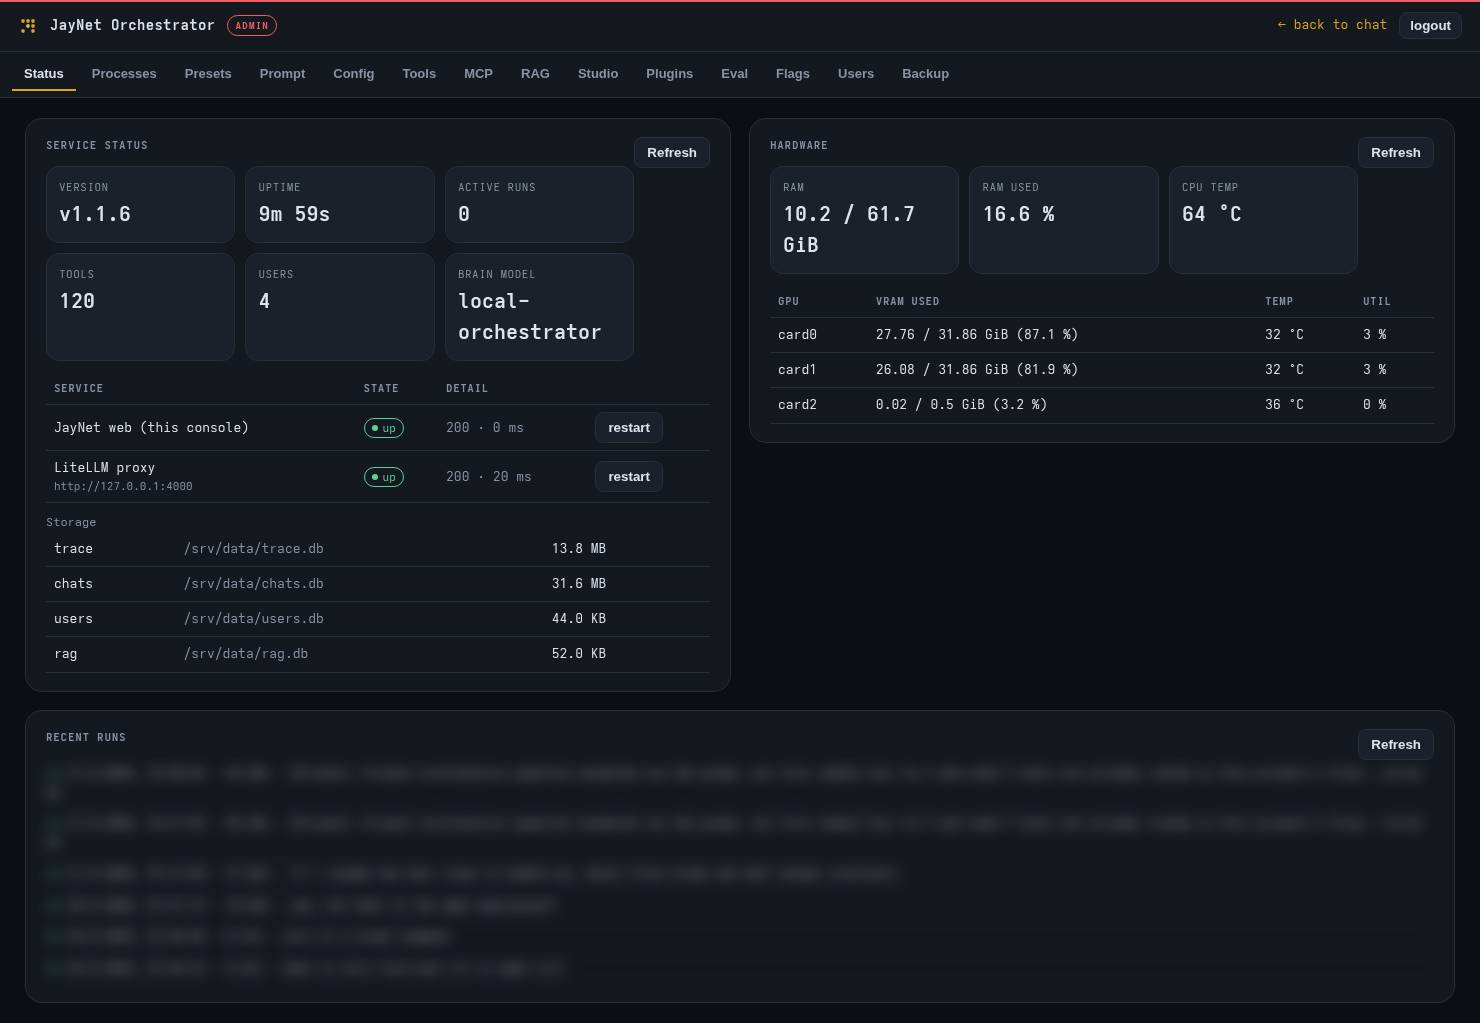
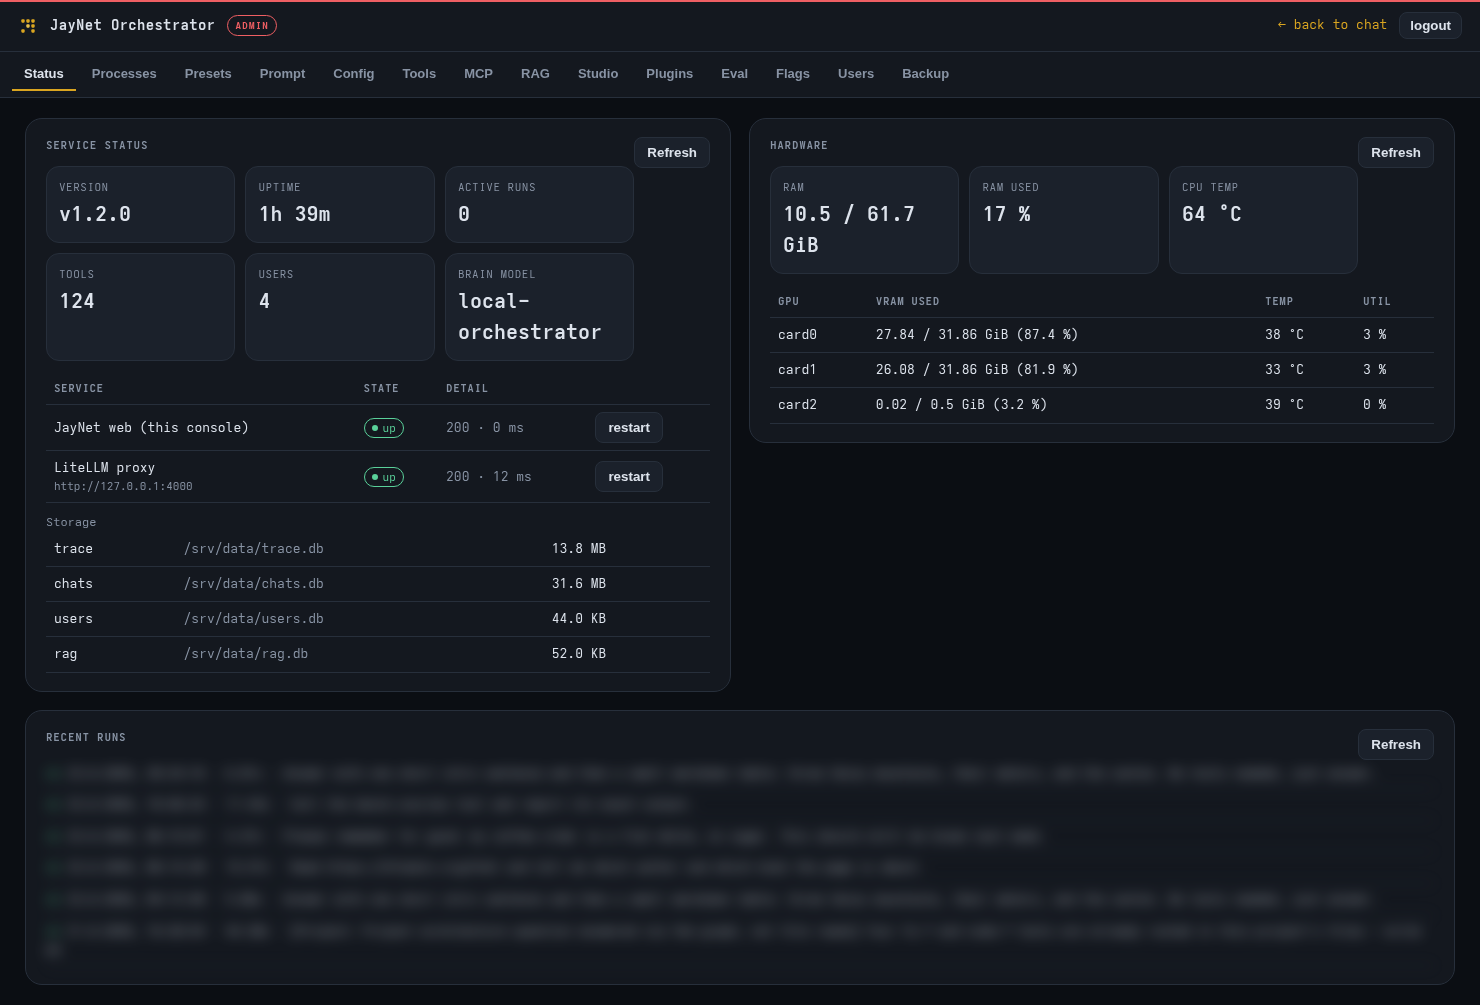
screenshots: fresh sweep incl. new Plugins tab shot

diff --git a/scripts/screenshot_pages.py b/scripts/screenshot_pages.py
@@ -46,6 +46,8 @@ ADMIN_REDACT = {
               "#reportRows td:nth-child(5)"],
     "rag": ["#ragRows td:nth-child(1)", "#ragRows td:nth-child(2)"],
     "studio": [],
+    # Plugins tab: names/descriptions/states are shipped public content.
+    "plugins": [],
     # Eval tab: case ids are public seeds, but the results table's judge
     # notes are model-generated free text — blur them.
     "eval": ["#evResultRows td:nth-child(5)"],
